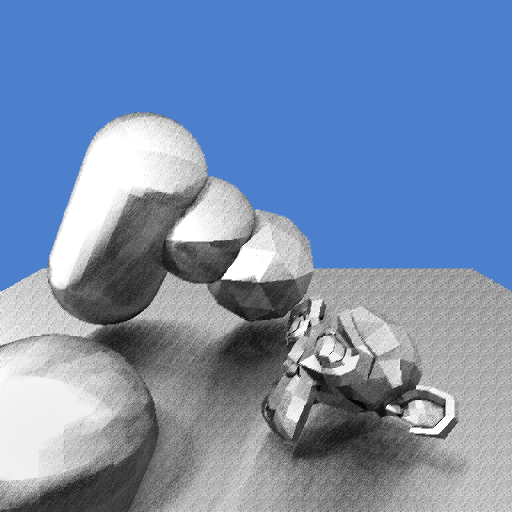
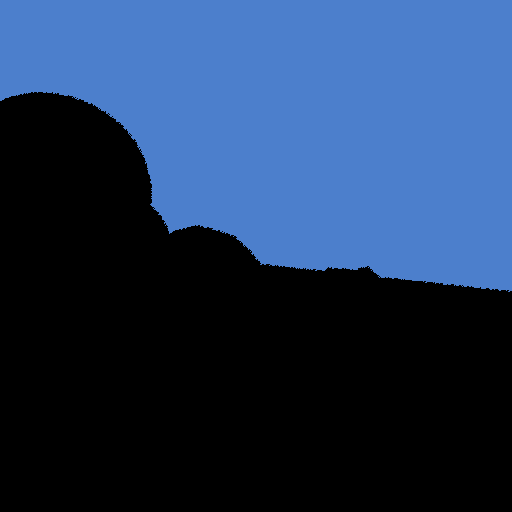
尝试计算光照。但是计算碰撞的时候失败，是全黑的，都判断在阴影区域内了

diff --git a/Assets/Scripts/TestCS.cs b/Assets/Scripts/TestCS.cs
@@ -51,6 +51,11 @@ public class TestCS : MonoBehaviour
     /// </summary>
     public Vector2Int tileCount;
 
+    /// <summary>
+    /// 主灯光
+    /// </summary>
+    public Light sun;
+
     void RenderTileSetUp()
     {
         tileCount = new Vector2Int();
@@ -136,6 +141,8 @@ public class TestCS : MonoBehaviour
         RaytracingShader.SetInt("max_step", MAX_STEP);
         RaytracingShader.SetInt("max_sample", MAX_SAMPLE);
 
+        //设置灯光数据
+        RaytracingShader.SetVector("sun", new Vector4(sun.transform.forward.x, sun.transform.forward.y, sun.transform.forward.z, sun.intensity));
 
         //传Mesh数据
         RaytracingShader.SetInt("vertexCount", mesh.vertexCount);
